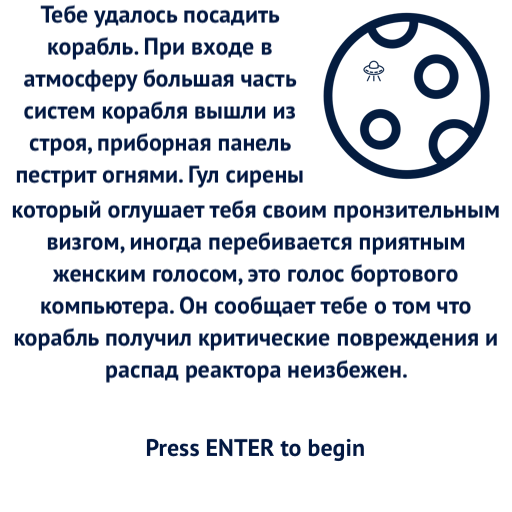
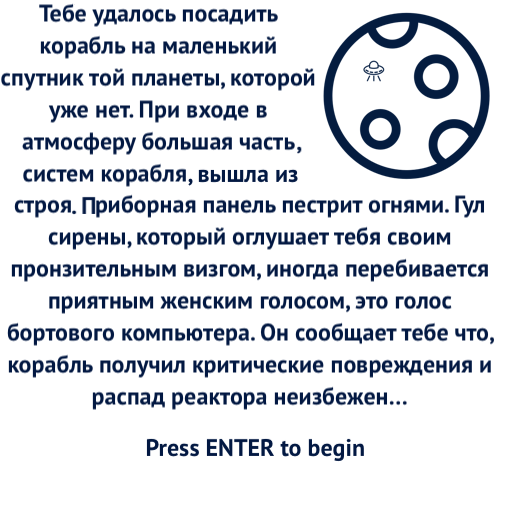
clean code

Changed region(s): [[0.0, 0.0, 1.0, 0.8125]]

diff --git a/core/src/com/avandrinov/stargame/screen/History.java b/core/src/com/avandrinov/stargame/screen/History.java
@@ -29,10 +29,10 @@ public class History extends BaseScreen {
                 gameOver = new TextureRegion(new Texture("saucerCrashed.png"));
                 break;
             case 1:
-                historyPart = new TextureRegion(new Texture("historyPart1Test.png"));
+                historyPart = new TextureRegion(new Texture("historyPart1.png"));
                 break;
             case 2:
-                historyPart = new TextureRegion(new Texture("historyPart2Test.png"));
+                historyPart = new TextureRegion(new Texture("historyPart2.png"));
                 break;
         }
     }

diff --git a/core/src/com/avandrinov/stargame/screen/TheRescuePart1Screen.java b/core/src/com/avandrinov/stargame/screen/TheRescuePart1Screen.java
@@ -53,7 +53,7 @@ public class TheRescuePart1Screen extends BaseScreen {
                     new Texture(Gdx.files.internal("saucerLuminescence" + i + ".png"))));
         }
         regionBoom = new TextureRegion(new Texture(Gdx.files.internal("boom.png")));
-        regionMoon = new TextureRegion(new Texture(Gdx.files.internal("moon2.png")));
+        regionMoon = new TextureRegion(new Texture(Gdx.files.internal("moon.png")));
         pos = new Vector2(10f, 10f);
         for (int i = 0; i < quantityComet; i++) {
             cometList.add(new Comet(height, width));
